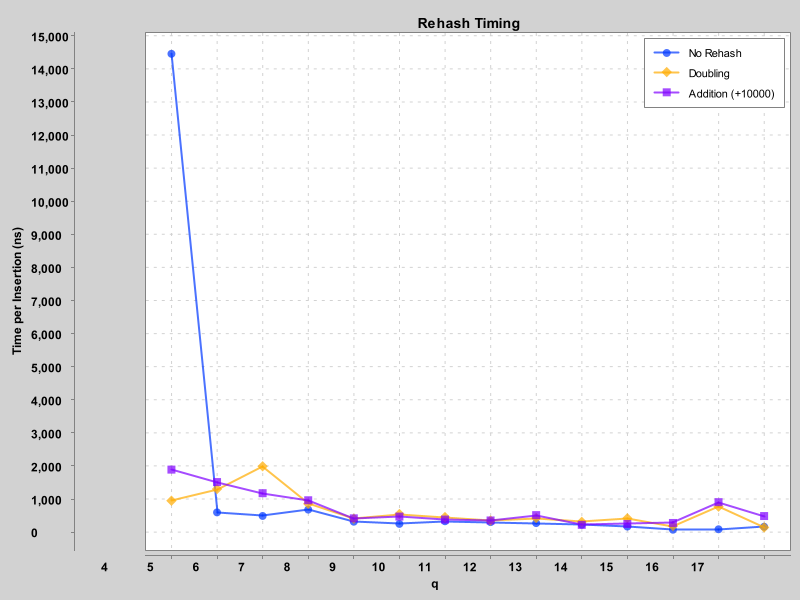
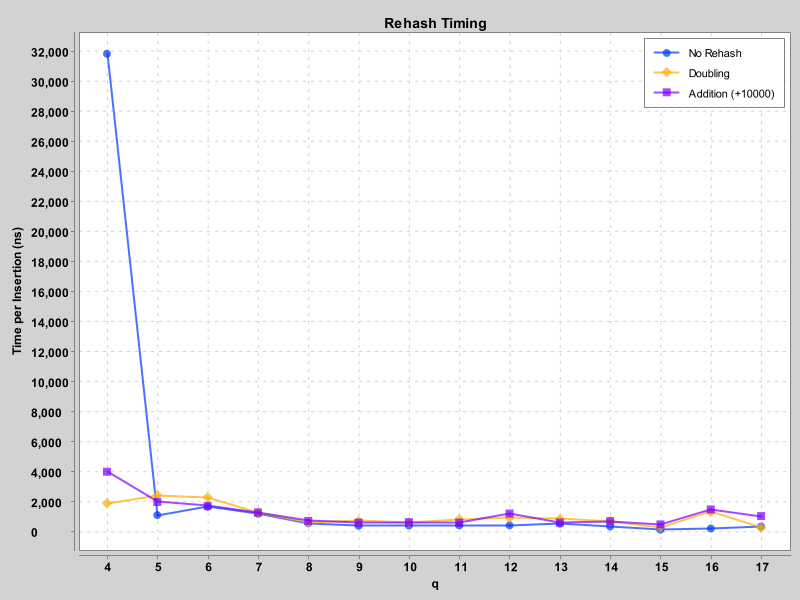
milestone 2.3

diff --git a/Project3/src/TimingVsLoadFactor.java b/Project3/src/TimingVsLoadFactor.java
@@ -1,0 +1,64 @@
+import java.io.*;
+import java.util.*;
+import java.util.concurrent.TimeUnit;
+
+public class TimingVsLoadFactor {
+
+    // Method to run the timing experiment
+    public static void main(List<String> addValues, List<String> checkValues) {
+        // Create the hash table
+        HashTable ht = new HashTable(65536, 0.75, 1);  // Table size 65536, load factor 0.75, doubling strategy
+
+        // Set up the list to store the timing data
+        List<Double> loadFactors = new ArrayList<>();
+        List<Long> successTimings = new ArrayList<>();
+        List<Long> failTimings = new ArrayList<>();
+
+        // Loop through different load factors (from 0.0 to 0.99)
+        for (double lambda = 0.0; lambda < 1.0; lambda += 0.033) {
+            int targetSize = (int) (lambda * ht.getTableSize());
+
+            // Insert values to reach the target size
+            while (ht.size() < targetSize && ht.size() < addValues.size()) {
+                ht.insert(addValues.get(ht.size()));  // Insert one value at a time to avoid infinite loop
+            }
+
+            // Measure successful search time (searching for items in addValues)
+            long successTotalTime = 0;
+            for (String value : addValues) {
+                long startTime = System.nanoTime();
+                ht.find(value);  // Perform a successful search
+                long endTime = System.nanoTime();
+                successTotalTime += (endTime - startTime);
+            }
+            long avgSuccessTime = successTotalTime / addValues.size();
+
+            // Measure unsuccessful search time (searching for items in checkValues)
+            long failTotalTime = 0;
+            for (String value : checkValues) {
+                long startTime = System.nanoTime();
+                ht.find(value);  // Perform an unsuccessful search
+                long endTime = System.nanoTime();
+                failTotalTime += (endTime - startTime);
+            }
+            long avgFailTime = failTotalTime / checkValues.size();
+
+            // Store the results
+            loadFactors.add(lambda);
+            successTimings.add(avgSuccessTime);
+            failTimings.add(avgFailTime);
+        }
+
+        // Write the results to a file for plotting
+        try (BufferedWriter writer = new BufferedWriter(new FileWriter("timing_vs_load_factor.txt"))) {
+            for (int i = 0; i < loadFactors.size(); i++) {
+                writer.write(loadFactors.get(i) + "," + successTimings.get(i) + "," + failTimings.get(i));
+                writer.newLine();
+            }
+        } catch (IOException e) {
+            e.printStackTrace();
+        }
+
+        System.out.println("Results saved to timing_vs_load_factor.txt");
+    }
+}

diff --git a/Project3/src/HashDriver.java b/Project3/src/HashDriver.java
@@ -113,13 +113,16 @@ public class HashDriver {
 
         List<String> addValues = wholeList.subList(0, HALF);
         List<String> checkValues = wholeList.subList(HALF, SIZE);
-
+        
         System.out.println("AddValues: " + addValues.size());
         System.out.println("CheckValues: " + checkValues.size());
         
-        RehashTiming.run(wholeList);
+        RehashTiming.main(wholeList);
         
         RehashTimingPlot.main(new String[]{});
+        
+        TimingVsLoadFactor.main(addValues, checkValues);
+
 
 	}
 

diff --git a/Project3/src/RehashTimingPlot.java b/Project3/src/RehashTimingPlot.java
@@ -50,7 +50,7 @@ public class RehashTimingPlot {
         chart.getStyler().setLegendPosition(Styler.LegendPosition.InsideNE);  // Correct usage of Styler for legend position
 
         // Display the chart
-        new SwingWrapper<>(chart).displayChart();
+       // new SwingWrapper<>(chart).displayChart();
         
         // Save the chart to a PNG file
         try {

diff --git a/Project3/src/RehashTiming.java b/Project3/src/RehashTiming.java
@@ -6,7 +6,7 @@ import java.util.List;
 
 public class RehashTiming {
 
-    public static void run(List<String> wholeList) {
+    public static void main(List<String> wholeList) {
         List<Long> noRehashTimes = new ArrayList<>();
         List<Long> doublingTimes = new ArrayList<>();
         List<Long> additionTimes = new ArrayList<>();

diff --git a/Project3/src/HashTable.java b/Project3/src/HashTable.java
@@ -63,4 +63,8 @@ public class HashTable {
     public double getLoadFactor() {
         return (double) count / table.length;
     }
+    
+    public int size() {
+        return this.count;
+    }
 }
